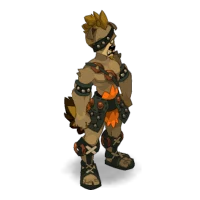
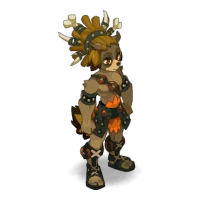
Choix de la tête à la création du héros ; têtes de l'Ouginak masculin triées
- Écran de départ et recrutement : une rangée « Tête » sous Apparence (toutes les classes sauf le Forgelance), le héros créé garde la tête choisie, et le panneau de la classe la montre.
- Ouginak masculin : retrait des 3 têtes féminines (3505, 3509, 3510) mélangées aux têtes masculines ; images locales recopiées.
- sw.js : cache des images media-v5.

Claude-Session: https://claude.ai/code/session_015qLdJVa5fZSSRyhreSRigB

Changed region(s): [[0.27, 0.03, 0.69, 0.96]]

diff --git a/js/looks.js b/js/looks.js
@@ -1,7 +1,7 @@
 /* idlus — apparences des héros (3.1)
    Rendus officiels des apparences DOFUS (corps de classe, têtes, couleurs) + correspondances objet → apparence établies par idlus. */
 (function (root) {
-  const CLASS_LOOKS = {"feca":{"m":{"body":10,"heads":[2012,2013,2014,2015,2016,2017,2018,2019],"colors":[15047528,7814953,14185518,4809554,5319189]},"f":{"body":11,"heads":[2020,2021,2022,2023,2024,2025,2026,2027],"colors":[15047528,7814953,14185518,4809554,5319189]}},"osa":{"m":{"body":20,"heads":[2028,2029,2030,2031,2032,2033,2034,2035],"colors":[14325094,14732959,3572096,4800822,16755757]},"f":{"body":21,"heads":[2036,2037,2038,2039,2040,2041,2042,2043],"colors":[14325094,14732959,3572096,4800822,16755757]}},"enu":{"m":{"body":30,"heads":[2044,2045,2046,2047,2048,2049,2050,2051],"colors":[13732958,15851694,3093806,14325820,7814953]},"f":{"body":31,"heads":[2052,2053,2054,2055,2056,2057,2058,2059],"colors":[16297081,15588265,3159600,14517248,7814953]}},"sram":{"m":{"body":40,"heads":[2060,2061,2062,2063,2064,2065,2066,2067],"colors":[14206857,15392448,3435918,6177568,10715217]},"f":{"body":41,"heads":[2068,2069,2070,2071,2072,2073,2074,2075],"colors":[14325094,15392448,3435918,6177568,3435918]}},"xelor":{"m":{"body":50,"heads":[2076,2077,2078,2079,2080,2081,2082,2083],"colors":[8550749,15782577,1923718,6700064,15042816]},"f":{"body":51,"heads":[2084,2085,2086,2087,2088,2089,2090,2091],"colors":[8550749,14533780,1923718,6700064,15042816]}},"eca":{"m":{"body":60,"heads":[2092,2093,2094,2095,2096,2097,2098,2099],"colors":[14732959,15173176,15690532,5478807,7687730]},"f":{"body":61,"heads":[2100,2101,2102,2103,2104,2105,2106,2107],"colors":[14732959,15173176,15690532,5478807,7687730]}},"eni":{"m":{"body":70,"heads":[2108,2109,2110,2111,2112,2113,2114,2115],"colors":[14325094,7814953,13997612,4739655,6833937]},"f":{"body":71,"heads":[2116,2117,2118,2119,2120,2121,2122,2123],"colors":[15047528,14996664,14368563,14471352,9799968]}},"iop":{"m":{"body":80,"heads":[2124,2125,2126,2127,2128,2129,2130,2131],"colors":[15704172,15301153,14736065,12200764,484225]},"f":{"body":81,"heads":[2132,2133,2134,2135,2136,2137,2138,2139],"colors":[15047528,15301153,14736065,12200764,12200764]}},"cra":{"m":{"body":90,"heads":[2140,2141,2142,2143,2144,2145,2146,2147],"colors":[15047528,14383411,7696171,8675096,9392643]},"f":{"body":91,"heads":[2148,2149,2150,2151,2152,2153,2154,2155],"colors":[15047528,14383411,7696171,9392643,9392643]}},"sadi":{"m":{"body":100,"heads":[2156,2157,2158,2159,2160,2161,2162,2163],"colors":[9329441,7966996,15914657,7820329,15914657]},"f":{"body":101,"heads":[2164,2165,2166,2167,2168,2169,2170,2171],"colors":[12282670,7966996,14994072,10711608,15258276]}},"sacri":{"m":{"body":110,"heads":[2172,2173,2174,2175,2176,2177,2178,2179],"colors":[15047528,15896377,8287530,8727092,16422159]},"f":{"body":111,"heads":[2180,2181,2182,2183,2184,2185,2186,2187],"colors":[15047528,15896377,8287530,8727092,16422159]}},"panda":{"m":{"body":120,"heads":[2188,2189,2190,2191,2192,2193,2194,2195],"colors":[13418918,5329968,9904435,3423523,14533780]},"f":{"body":121,"heads":[2196,2197,2198,2199,2200,2201,2202,2203],"colors":[13418918,5329968,9904435,9904435,14533780]}},"roub":{"m":{"body":1405,"heads":[2204,2205,2206,2207,2208,2209,2210,2211],"colors":[15047528,1341042,3883833,15703040,7098924]},"f":{"body":1407,"heads":[2212,2213,2214,2215,2216,2217,2218,2219],"colors":[15047528,1341042,3883833,15703040,7098924]}},"zobal":{"m":{"body":1437,"heads":[2220,2221,2222,2223,2224,2225,2226,2227],"colors":[15572842,9836073,4863523,1855824,11839343]},"f":{"body":1438,"heads":[2228,2229,2230,2231,2232,2233,2234,2235],"colors":[15572842,9836073,4863523,1855824,11839343]}},"steam":{"m":{"body":1663,"heads":[2236,2237,2238,2239,2240,2241,2242,2243],"colors":[14785388,15060409,3882547,11430949,10984301]},"f":{"body":1664,"heads":[2244,2245,2246,2247,2248,2249,2250,2251],"colors":[14785388,15060409,3882547,11430949,10984301]}},"elio":{"m":{"body":3179,"heads":[3183,3184,3185,3186,3187,3188,3189,3190],"colors":[16112841,10072765,8211000,16765866,2388929]},"f":{"body":3180,"heads":[3199,3200,3201,3202,3203,3204,3205,3206],"colors":[16112841,10072765,8211000,16765866,2388929]}},"hupper":{"m":{"body":3285,"heads":[3289,3290,3291,3292,3293,3294,3295,3296],"colors":[16104582,16439198,2663850,15071441,16643820]},"f":{"body":3286,"heads":[3297,3298,3299,3300,3301,3302,3303,3304],"colors":[16104582,16439198,2663850,13426363,15987438]}},"ougi":{"m":{"body":3498,"heads":[3504,3505,3506,3507,3508,3509,3510,3511],"colors":[9795658,9989653,8077087,4081977,12868619]},"f":{"body":3499,"heads":[3526,3527],"colors":[9598537,13012508,8077087,4081977,9717256]}},"forge":{"m":{"body":3221,"heads":[4364,4365,4366,4367,4368,4369,4370,4371],"colors":[15047528,7814953,4276545,15325098,8885653]},"f":{"body":3633,"heads":[4363,4374,4375,4376,4377,4378,4379,4372],"colors":[15047528,7814953,4276545,15325098,8885653]}}};
+  const CLASS_LOOKS = {"feca":{"m":{"body":10,"heads":[2012,2013,2014,2015,2016,2017,2018,2019],"colors":[15047528,7814953,14185518,4809554,5319189]},"f":{"body":11,"heads":[2020,2021,2022,2023,2024,2025,2026,2027],"colors":[15047528,7814953,14185518,4809554,5319189]}},"osa":{"m":{"body":20,"heads":[2028,2029,2030,2031,2032,2033,2034,2035],"colors":[14325094,14732959,3572096,4800822,16755757]},"f":{"body":21,"heads":[2036,2037,2038,2039,2040,2041,2042,2043],"colors":[14325094,14732959,3572096,4800822,16755757]}},"enu":{"m":{"body":30,"heads":[2044,2045,2046,2047,2048,2049,2050,2051],"colors":[13732958,15851694,3093806,14325820,7814953]},"f":{"body":31,"heads":[2052,2053,2054,2055,2056,2057,2058,2059],"colors":[16297081,15588265,3159600,14517248,7814953]}},"sram":{"m":{"body":40,"heads":[2060,2061,2062,2063,2064,2065,2066,2067],"colors":[14206857,15392448,3435918,6177568,10715217]},"f":{"body":41,"heads":[2068,2069,2070,2071,2072,2073,2074,2075],"colors":[14325094,15392448,3435918,6177568,3435918]}},"xelor":{"m":{"body":50,"heads":[2076,2077,2078,2079,2080,2081,2082,2083],"colors":[8550749,15782577,1923718,6700064,15042816]},"f":{"body":51,"heads":[2084,2085,2086,2087,2088,2089,2090,2091],"colors":[8550749,14533780,1923718,6700064,15042816]}},"eca":{"m":{"body":60,"heads":[2092,2093,2094,2095,2096,2097,2098,2099],"colors":[14732959,15173176,15690532,5478807,7687730]},"f":{"body":61,"heads":[2100,2101,2102,2103,2104,2105,2106,2107],"colors":[14732959,15173176,15690532,5478807,7687730]}},"eni":{"m":{"body":70,"heads":[2108,2109,2110,2111,2112,2113,2114,2115],"colors":[14325094,7814953,13997612,4739655,6833937]},"f":{"body":71,"heads":[2116,2117,2118,2119,2120,2121,2122,2123],"colors":[15047528,14996664,14368563,14471352,9799968]}},"iop":{"m":{"body":80,"heads":[2124,2125,2126,2127,2128,2129,2130,2131],"colors":[15704172,15301153,14736065,12200764,484225]},"f":{"body":81,"heads":[2132,2133,2134,2135,2136,2137,2138,2139],"colors":[15047528,15301153,14736065,12200764,12200764]}},"cra":{"m":{"body":90,"heads":[2140,2141,2142,2143,2144,2145,2146,2147],"colors":[15047528,14383411,7696171,8675096,9392643]},"f":{"body":91,"heads":[2148,2149,2150,2151,2152,2153,2154,2155],"colors":[15047528,14383411,7696171,9392643,9392643]}},"sadi":{"m":{"body":100,"heads":[2156,2157,2158,2159,2160,2161,2162,2163],"colors":[9329441,7966996,15914657,7820329,15914657]},"f":{"body":101,"heads":[2164,2165,2166,2167,2168,2169,2170,2171],"colors":[12282670,7966996,14994072,10711608,15258276]}},"sacri":{"m":{"body":110,"heads":[2172,2173,2174,2175,2176,2177,2178,2179],"colors":[15047528,15896377,8287530,8727092,16422159]},"f":{"body":111,"heads":[2180,2181,2182,2183,2184,2185,2186,2187],"colors":[15047528,15896377,8287530,8727092,16422159]}},"panda":{"m":{"body":120,"heads":[2188,2189,2190,2191,2192,2193,2194,2195],"colors":[13418918,5329968,9904435,3423523,14533780]},"f":{"body":121,"heads":[2196,2197,2198,2199,2200,2201,2202,2203],"colors":[13418918,5329968,9904435,9904435,14533780]}},"roub":{"m":{"body":1405,"heads":[2204,2205,2206,2207,2208,2209,2210,2211],"colors":[15047528,1341042,3883833,15703040,7098924]},"f":{"body":1407,"heads":[2212,2213,2214,2215,2216,2217,2218,2219],"colors":[15047528,1341042,3883833,15703040,7098924]}},"zobal":{"m":{"body":1437,"heads":[2220,2221,2222,2223,2224,2225,2226,2227],"colors":[15572842,9836073,4863523,1855824,11839343]},"f":{"body":1438,"heads":[2228,2229,2230,2231,2232,2233,2234,2235],"colors":[15572842,9836073,4863523,1855824,11839343]}},"steam":{"m":{"body":1663,"heads":[2236,2237,2238,2239,2240,2241,2242,2243],"colors":[14785388,15060409,3882547,11430949,10984301]},"f":{"body":1664,"heads":[2244,2245,2246,2247,2248,2249,2250,2251],"colors":[14785388,15060409,3882547,11430949,10984301]}},"elio":{"m":{"body":3179,"heads":[3183,3184,3185,3186,3187,3188,3189,3190],"colors":[16112841,10072765,8211000,16765866,2388929]},"f":{"body":3180,"heads":[3199,3200,3201,3202,3203,3204,3205,3206],"colors":[16112841,10072765,8211000,16765866,2388929]}},"hupper":{"m":{"body":3285,"heads":[3289,3290,3291,3292,3293,3294,3295,3296],"colors":[16104582,16439198,2663850,15071441,16643820]},"f":{"body":3286,"heads":[3297,3298,3299,3300,3301,3302,3303,3304],"colors":[16104582,16439198,2663850,13426363,15987438]}},"ougi":{"m":{"body":3498,"heads":[3504,3506,3507,3508,3511],"colors":[9795658,9989653,8077087,4081977,12868619]},"f":{"body":3499,"heads":[3526,3527],"colors":[9598537,13012508,8077087,4081977,9717256]}},"forge":{"m":{"body":3221,"heads":[4364,4365,4366,4367,4368,4369,4370,4371],"colors":[15047528,7814953,4276545,15325098,8885653]},"f":{"body":3633,"heads":[4363,4374,4375,4376,4377,4378,4379,4372],"colors":[15047528,7814953,4276545,15325098,8885653]}}};
   /* coiffes et capes dont l'apparence est connue (les autres n'apparaissent pas encore sur le héros) */
   const ITEM_SKINS = {"i8534":191,"i937":212,"i8232":167,"i2473":124,"i8231":166,"i8236":168,"i8233":170,"i8235":169,"i8234":171,"i773":88,"i776":92,"i6916":319,"i947":217,"i744":84,"i1021":1171,"i2414":119,"i6720":131,"i8258":172,"i957":208,"i8112":161,"i7108":320,"i2445":122,"i2382":112,"i2412":117,"i2534":128,"i2489":125,"i1695":93,"i8247":283,"i8246":284,"i2474":242,"i8248":285,"i6917":262,"i8125":276,"i2411":239,"i6719":251,"i8259":286,"i701":226,"i10828":265,"i702":227,"i708":433,"i2641":247,"i2438":240,"i2070":249,"i7109":269,"i2095":234,"i2409":237,"i2535":245,"i6760":257,"i6991":1094,"i1908":1066,"i8304":295,"i7887":1100,"i8285":293,"i6764":428,"i8163":450,"i8845":309,"i2546":246,"i8330":416,"i8463":302,"i7151":440,"i6481":250,"i8243":280,"i8244":281,"i8245":282};
   /* palettes : la couleur 1 (peau) est conservée, les autres sont remplacées */

diff --git a/js/ui.js b/js/ui.js
@@ -456,12 +456,19 @@ function classPick(sel, sexSel) {
     return `<button class="clsbtn" style="--cc:${c.color}" data-act="startcls" data-cls="${id}" aria-pressed="${sel === id}" data-tip="${h(c.desc + " — Passif : " + c.passive.name + " : " + c.passive.desc)}">
       <span class="csym">${im(symImg(id), "", c.name)}</span><b>${c.name}</b></button>`; }).join("")}</div>`;
 }
-function classInfo(id, sex) {
+function classInfo(id, sex, hd) {
   const c = CLASSES[id];
   return `<div class="clsinfo" style="--cc:${c.color}"><span class="csym">${im(symImg(id), "", c.name)}</span>
     <div class="grow"><b style="font-size:17px">${c.name}</b><div class="small muted">${h(c.desc)}</div><div class="small" style="margin-top:4px"><span class="tag soft">Passif</span> <b>${h(c.passive.name)}</b> : ${h(c.passive.desc)}</div></div>
-    ${im(lookLocal(id, sex || c.sex, 0), "clook")}</div>`;
+    ${im(lookLocal(id, sex || c.sex, hd || 0), "clook")}</div>`;
 }
+/* Choix de la tête dès la création du héros */
+function headPick(id, sex) {
+  const L = LK.CLASS_LOOKS[id]; const sx = sex === "f" ? "f" : "m"; if (!L || id === "forge" || L[sx].heads.length < 2) return "";
+  const cur = Math.min(ui.startHead || 0, L[sx].heads.length - 1);
+  return `<div class="stack" style="gap:4px"><span class="small muted">Tête</span><div class="headpick">${L[sx].heads.map((_, i) => `<button class="${cur === i ? "on" : ""}" data-act="starthead" data-v="${i}" aria-pressed="${cur === i}"><img src="${lookLocal(id, sx, i)}" alt="Tête ${i + 1}"></button>`).join("")}</div></div>`;
+}
+const startHeadOf = (id, sex) => { const L = LK.CLASS_LOOKS[id]; const n = L ? L[sex === "f" ? "f" : "m"].heads.length : 1; return id === "forge" ? 0 : Math.min(ui.startHead || 0, n - 1); };
 const hasPublicSave = () => { try { return !!localStorage.getItem("dofousxen-save"); } catch (e) { return false; } };
 function renderStart() {
   renderStatus(); renderNav();
@@ -474,8 +481,9 @@ function renderStart() {
     <div class="panel"><div class="pad stack">
       <h2>Choisissez votre premier héros</h2>
       ${classPick(ui.startCls, sex)}
-      ${classInfo(ui.startCls, sex)}
+      ${classInfo(ui.startCls, sex, startHeadOf(ui.startCls, sex))}
       <div class="row"><span class="small muted">Apparence</span><span class="seg">${[["m", "Masculin"], ["f", "Féminin"]].map(([v, n]) => `<button data-act="startsex" data-v="${v}" aria-pressed="${sex === v}">${n}</button>`).join("")}</span></div>
+      ${headPick(ui.startCls, sex)}
       <label class="stack" style="gap:4px"><span class="small muted">Nom du héros</span><input type="text" id="startName" maxlength="20" value="${h(ui.startName || D.NAMES[Math.floor(Math.random() * D.NAMES.length)])}"></label>
       <div><button class="btn primary" data-act="startgame">Commencer l'aventure</button></div>
     </div></div>
@@ -1825,8 +1833,9 @@ function recruitSheet() {
   const cost = E.recruitCost(S.chars.length + 1); const top = Math.max(...S.chars.map((c) => c.lvl)); const sex = ui.startSex || CLASSES[ui.startCls].sex;
   openSheet(`<h2>Recruter un héros</h2>
     <p class="small muted">Coût : <b>${cost ? fmt(cost) + " kamas" : "gratuit"}</b> (vous avez ${fmt(S.kamas)}). La recrue arrive au niveau ${Math.max(1, Math.floor(top / 2))}. Plus l'équipe est grande, plus le bonus Esprit Libre diminue.</p>
-    ${classPick(ui.startCls, sex)}${classInfo(ui.startCls, sex)}
+    ${classPick(ui.startCls, sex)}${classInfo(ui.startCls, sex, startHeadOf(ui.startCls, sex))}
     <div class="row"><span class="small muted">Apparence</span><span class="seg">${[["m", "Masculin"], ["f", "Féminin"]].map(([v, n]) => `<button data-act="startsex" data-v="${v}" aria-pressed="${sex === v}">${n}</button>`).join("")}</span></div>
+      ${headPick(ui.startCls, sex)}
     <label class="stack" style="gap:4px"><span class="small muted">Nom</span><input type="text" id="recName" maxlength="20" value="${h(ui.recName || D.NAMES[Math.floor(Math.random() * D.NAMES.length)])}"></label>
     <div class="row"><button class="btn primary" data-act="recruit" ${S.kamas < cost ? "disabled" : ""}>Recruter</button><button class="btn" data-act="closesheet">Annuler</button></div>`);
 }
@@ -2042,9 +2051,10 @@ document.addEventListener("click", (ev) => {
   if (t.tagName === "SELECT" || (t.tagName === "INPUT" && t.type !== "checkbox")) return;
   const d = t.dataset; const c = ui.cid && S ? char(ui.cid) : null;
   switch (a) {
-    case "startcls": { const n = $("#startName") || $("#recName"); if (n) { if (S) ui.recName = n.value; else ui.startName = n.value; } ui.startCls = d.cls; ui.startSex = null; if (!S) renderStart(); else recruitSheet(); return; }
-    case "startsex": { const n = $("#startName") || $("#recName"); if (n) { if (S) ui.recName = n.value; else ui.startName = n.value; } ui.startSex = d.v; if (!S) renderStart(); else recruitSheet(); return; }
-    case "startgame": { const name = ($("#startName").value || "").trim() || "Aventurier"; S = E.newState(name.slice(0, 20), ui.startCls); S.seenVersion = GAME_VERSION; S.chars[0].sex = ui.startSex || CLASSES[ui.startCls].sex; setTheme(document.documentElement.dataset.theme || "dark"); ui.cid = S.chars[0].id; ui.tab = "world"; dirty = true; saveNow(); render(); toast("Choisissez une zone pour partir chasser !"); return; }
+    case "startcls": { const n = $("#startName") || $("#recName"); if (n) { if (S) ui.recName = n.value; else ui.startName = n.value; } ui.startCls = d.cls; ui.startSex = null; ui.startHead = 0; if (!S) renderStart(); else recruitSheet(); return; }
+    case "startsex": { const n = $("#startName") || $("#recName"); if (n) { if (S) ui.recName = n.value; else ui.startName = n.value; } ui.startSex = d.v; ui.startHead = 0; if (!S) renderStart(); else recruitSheet(); return; }
+    case "starthead": { const n = $("#startName") || $("#recName"); if (n) { if (S) ui.recName = n.value; else ui.startName = n.value; } ui.startHead = +d.v; if (!S) renderStart(); else recruitSheet(); return; }
+    case "startgame": { const name = ($("#startName").value || "").trim() || "Aventurier"; S = E.newState(name.slice(0, 20), ui.startCls); S.seenVersion = GAME_VERSION; S.chars[0].sex = ui.startSex || CLASSES[ui.startCls].sex; S.chars[0].head = startHeadOf(ui.startCls, S.chars[0].sex); setTheme(document.documentElement.dataset.theme || "dark"); ui.cid = S.chars[0].id; ui.tab = "world"; dirty = true; saveNow(); render(); toast("Choisissez une zone pour partir chasser !"); return; }
     case "settheme": S.settings.theme = d.v; setTheme(); optionsSheet(); render(); return;
     case "setreduced": S.settings.reduced = d.v === "1"; setTheme(); optionsSheet(); render(); return;
     case "setcele": S.settings.cele = d.v === "1"; dirty = true; optionsSheet(); return;
@@ -2190,7 +2200,7 @@ document.addEventListener("click", (ev) => {
     case "gdel": E.deleteGear(S, c.id, +d.i); break;
     case "pzonedel": E.setZonePreset(S, c.id, d.z, null); break;
     case "recruitsheet": recruitSheet(); return;
-    case "recruit": { const r = E.recruit(S, ui.startCls, ($("#recName").value || "").trim().slice(0, 20)); if (r) { toast(r); return; } const nc = S.chars[S.chars.length - 1]; nc.sex = ui.startSex || CLASSES[ui.startCls].sex; ui.recName = ""; closeSheet(); ui.cid = nc.id; break; }
+    case "recruit": { const r = E.recruit(S, ui.startCls, ($("#recName").value || "").trim().slice(0, 20)); if (r) { toast(r); return; } const nc = S.chars[S.chars.length - 1]; nc.sex = ui.startSex || CLASSES[ui.startCls].sex; nc.head = startHeadOf(ui.startCls, nc.sex); ui.startHead = 0; ui.recName = ""; closeSheet(); ui.cid = nc.id; break; }
     case "invtab": ui.inv = d.v; ui.newResDone = false; break;
     case "givesheet": giveSheet(+d.uid); return;
     case "giveto": { const r = E.equip(S, +d.id, ui.giveTo); if (r) { toast(r); return; } closeSheet(); toast("Objet équipé."); break; }

diff --git a/sw.js b/sw.js
@@ -4,7 +4,7 @@
 const VERSION = "0.1.0";
 /* La version de test (/beta/) a ses propres caches : chaque service worker ne nettoie que les siens. */
 const P = /\/beta\/$/.test(self.registration.scope) ? "idlus-beta-" : "idlus-";
-const CORE = P + "core-" + VERSION, MEDIA = P + "media-v4";
+const CORE = P + "core-" + VERSION, MEDIA = P + "media-v5";
 const PRECACHE = ["./", "index.html", "css/style.css", "js/gamedata.js", "js/looks.js", "js/data.js", "js/engine.js", "js/systems.js", "js/ui.js", "js/admin.js", "manifest.webmanifest", "icons/icon-192.png", "icons/icon-512.png"];
 self.addEventListener("install", (e) => { e.waitUntil(caches.open(CORE).then((c) => c.addAll(PRECACHE)).then(() => self.skipWaiting())); });
 self.addEventListener("activate", (e) => {
